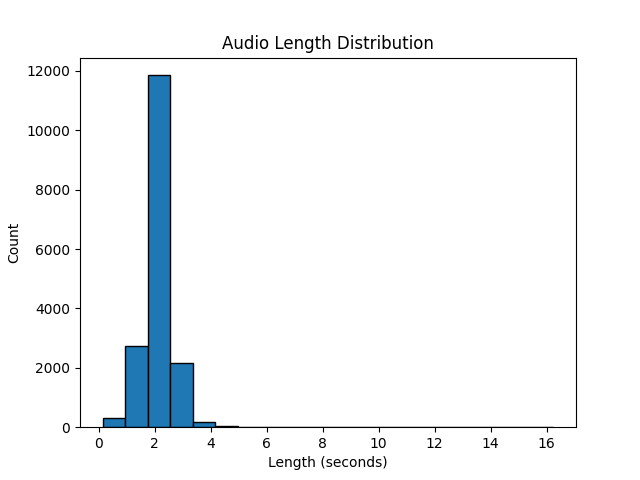
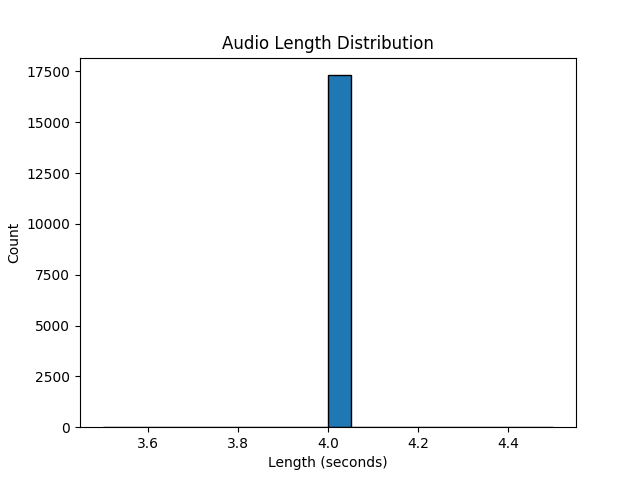
power profiling for ANN

diff --git a/code/powerProfiling/networks.py b/code/powerProfiling/networks.py
@@ -1,0 +1,103 @@
+from torch import nn
+import torch
+import snntorch as snn
+
+
+class CNN_amplitude(nn.Module):
+    def __init__(self):
+        super().__init__()
+
+        self.B = 64
+
+        self.conv1 = nn.Conv1d(in_channels=1, out_channels=32,
+                               kernel_size=100, stride=10)
+        self.conv2 = nn.Conv1d(in_channels=32, out_channels=16,
+                               kernel_size=100, stride=10)
+        self.fc1 = nn.Linear(in_features=2480, out_features=512)
+        self.fc2 = nn.Linear(in_features=512, out_features=9)
+
+    def forward(self, x):
+        x = nn.functional.relu(self.conv1(x))
+        x = nn.MaxPool1d(kernel_size=2, stride=2)(x)
+        x = nn.functional.relu(self.conv2(x))
+        x = nn.MaxPool1d(kernel_size=2, stride=2)(x)
+        x = x.view(self.B, -1)
+        x = nn.Dropout(0.5)(x)
+        x = nn.functional.relu(self.fc1(x))
+        x = nn.Dropout(0.5)(x)
+        x = self.fc2(x)
+        return x
+
+
+class CNN_mfcc(nn.Module):
+    def __init__(self):
+        super().__init__()
+
+        self.B = 64
+
+        self.conv1 = nn.Conv2d(in_channels=1, out_channels=32,
+                               kernel_size=3)
+        self.conv2 = nn.Conv2d(in_channels=32, out_channels=64,
+                               kernel_size=3)
+        self.fc1 = nn.Linear(in_features=5376, out_features=512)
+        self.fc2 = nn.Linear(in_features=512, out_features=9)
+
+    def forward(self, x):
+        x = nn.functional.relu(self.conv1(x))
+        x = nn.MaxPool2d(kernel_size=2, stride=2)(x)
+        x = nn.functional.relu(self.conv2(x))
+        x = nn.MaxPool2d(kernel_size=2, stride=2)(x)
+        x = x.view(self.B, -1)
+        x = nn.Dropout(0.5)(x)
+        x = nn.functional.relu(self.fc1(x))
+        x = nn.Dropout(0.5)(x)
+        x = self.fc2(x)
+        return x
+
+
+class SNN_mfcc(nn.Module):
+    def __init__(self):
+        super().__init__()
+
+        self.time_steps = 345
+        self.B = 128
+
+        self.fc1 = nn.Linear(in_features=13, out_features=128)
+        self.lif1 = snn.Leaky(beta=0.9, learn_beta=True,
+                              threshold=1, learn_threshold=True)
+
+        self.fc2 = nn.Linear(in_features=128, out_features=9)
+        self.lif2 = snn.Leaky(beta=0.9, learn_beta=True,
+                              threshold=1, learn_threshold=True)
+
+    def forward(self, x):
+        # Initialize hidden states and outputs at t=0
+        mem1 = self.lif1.init_leaky()
+        mem2 = self.lif2.init_leaky()
+
+        # Record the final layer over time
+        mem_rec = []
+        spk_rec = []
+
+        # time-loop
+        for step in range(self.time_steps):
+            cur1 = self.fc1(x[:, :, step])
+            assert cur1.shape == (self.B, 128)
+            spk1, mem1 = self.lif1(cur1, mem1)
+            assert spk1.shape == (self.B, 128)
+
+            cur2 = self.fc2(spk1)
+            assert cur2.shape == (self.B, 9)
+            spk2, mem2 = self.lif2(cur2, mem2)
+            assert spk2.shape == (self.B, 9)
+
+            spk_rec.append(spk2)
+            mem_rec.append(mem2)
+
+        spk_rec = torch.stack(spk_rec, dim=0)
+        mem_rec = torch.stack(mem_rec, dim=0)
+
+        assert spk_rec.shape == (self.time_steps, self.B, 9)
+        assert mem_rec.shape == (self.time_steps, self.B, 9)
+
+        return spk_rec, mem_rec

diff --git a/code/powerProfiling/main.py b/code/powerProfiling/main.py
@@ -1,0 +1,73 @@
+import torch
+import numpy as np
+import pytest
+from snntorch.energy_estimation.estimate_energy import estimate_energy
+from snntorch.energy_estimation.device_profile_registry import DeviceProfileRegistry
+from snntorch.energy_estimation.layer_parameter_event_calculator import (LayerParameterEventCalculator,
+                                                                         synapse_neuron_count_for_linear,
+                                                                         count_events_for_linear)
+
+
+from dataUtils import get_batch
+from networks import CNN_mfcc, CNN_amplitude, SNN_mfcc
+
+
+def get_estimation_CNN_mfcc():
+    model = CNN_mfcc()
+    batch = get_batch(feature_type='mfcc', batch_size=64)
+
+    energy_per_synapse_event = 8.6e-9
+    energy_per_neuron_event = 8.6e-9
+    DeviceProfileRegistry.add_device("cpu-test2", energy_per_synapse_event,
+                                     energy_per_neuron_event,
+                                     True)
+
+    # get the layer summaries
+    summary_list = estimate_energy(model=model, input_data=batch,
+                                   devices="cpu-test2",
+                                   include_bias_term_in_events=False)
+
+    print(summary_list)
+
+
+def get_estimation_CNN_amplitude():
+    model = CNN_amplitude()
+    batch = get_batch(feature_type='amplitude', batch_size=64)
+
+    energy_per_synapse_event = 8.6e-9
+    energy_per_neuron_event = 8.6e-9
+    DeviceProfileRegistry.add_device("cpu-test2", energy_per_synapse_event,
+                                     energy_per_neuron_event,
+                                     False)
+
+    # get the layer summaries
+    summary_list = estimate_energy(model=model, input_data=batch,
+                                   devices="cpu-test2",
+                                   include_bias_term_in_events=False)
+
+    print(summary_list)
+
+
+def get_estimation_SNN_mfcc():
+    model = SNN_mfcc()
+    batch = get_batch(feature_type='mfcc', batch_size=128)
+
+    energy_per_synapse_event = 8.6e-9
+    energy_per_neuron_event = 8.6e-9
+    DeviceProfileRegistry.add_device("cpu-test2", energy_per_synapse_event,
+                                     energy_per_neuron_event,
+                                     False)
+
+    # get the layer summaries
+    summary_list = estimate_energy(model=model, input_data=batch,
+                                   devices="cpu-test2",
+                                   include_bias_term_in_events=False)
+
+    print(summary_list)
+
+
+# get_estimation_CNN_mfcc()
+
+# get_estimation_CNN_amplitude()
+
+get_estimation_SNN_mfcc()

diff --git a/code/powerProfiling/dataUtils.py b/code/powerProfiling/dataUtils.py
@@ -1,0 +1,65 @@
+import torch
+from torch.utils.data import Dataset
+import numpy as np
+import os.path
+
+
+class AudioDataset(Dataset):
+    def __init__(self, data_filepath, labels_filepath):
+        self.data = np.load(data_filepath)
+        self.data = np.expand_dims(self.data, axis=1)
+        self.labels = np.load(labels_filepath)
+
+    def __len__(self):
+        return len(self.labels)
+
+    def __getitem__(self, idx):
+        data = self.data[idx]
+        label = self.labels[idx]
+        return data, label
+
+
+def save_batch(feature_type, batch_size):
+    features_path = f'../../data/arrays/{feature_type}_features.npy'
+    batch_file = f'../../data/arrays/{feature_type}_batch_{batch_size}.npy'
+    labels_path = '../../data/arrays/labels.npy'
+
+    dataset = AudioDataset(data_filepath=features_path,
+                           labels_filepath=labels_path)
+
+    # split the dataset into three parts (train 70%, test 15%, validation 15%)
+    test_size = 0.15
+    val_size = 0.15
+
+    test_amount, val_amount = int(dataset.__len__() * test_size), int(dataset.__len__() * val_size)
+
+    train_set, val_set, test_set = torch.utils.data.random_split(dataset, [
+                (dataset.__len__() - (test_amount + val_amount)),
+                test_amount,
+                val_amount
+    ])
+
+    train_dataloader = torch.utils.data.DataLoader(
+                train_set,
+                batch_size=batch_size,
+                shuffle=True,
+                drop_last=True,
+    )
+
+    batch = next(iter(train_dataloader))[0]
+    np.save(batch_file, batch.detach().numpy())
+
+
+def get_batch(feature_type, batch_size):
+    if feature_type == 'amplitude':
+        batch_file = f'../../data/arrays/amplitude_batch_{batch_size}.npy'
+    elif feature_type == 'mfcc':
+        batch_file = f'../../data/arrays/mfcc_batch_{batch_size}.npy'
+    else:
+        print('Invalid argument')
+        return None
+
+    if not os.path.isfile(batch_file):
+        save_batch(feature_type, batch_size)
+
+    return torch.from_numpy(np.load(batch_file))

diff --git a/code/preprocessing/create_plots.py b/code/preprocessing/create_plots.py
@@ -37,15 +37,15 @@ def get_lengths_list(audio_path):
 
 
 def plot_length_distribution_rawdata():
-    audio_path = '../data/rawdata/**/*.wav'
-    plot_path = '../plots/rawAudioLengths'
+    audio_path = '../../data/rawdata/**/*.wav'
+    plot_path = '../../plots/rawAudioLengths'
     lengths = get_lengths_list(audio_path)
     plot_length_distribution(lengths, plot_path)
 
 
 def plot_length_distribution_trimmeddata():
-    audio_path = '../data/trimmedData/*.wav'
-    plot_path = '../plots/trimmedAudioLengths'
+    audio_path = '../../data/trimmedData/*.wav'
+    plot_path = '../../plots/trimmedAudioLengths'
     lengths = get_lengths_list(audio_path)
     plot_length_distribution(lengths, plot_path)
 
@@ -195,9 +195,9 @@ def plot_audio_mfcc():
     signal, sr = librosa.load(audio_file)
 
 
-# plot_length_distribution_trimmeddata()
+plot_length_distribution_trimmeddata()
 # plot_length_distribution_rawdata()
 # plot_languages_distribution()
 # plot_PCA()
 #plot_mfcc_distributions()
-plot_audio_signal()
+#plot_audio_signal()
